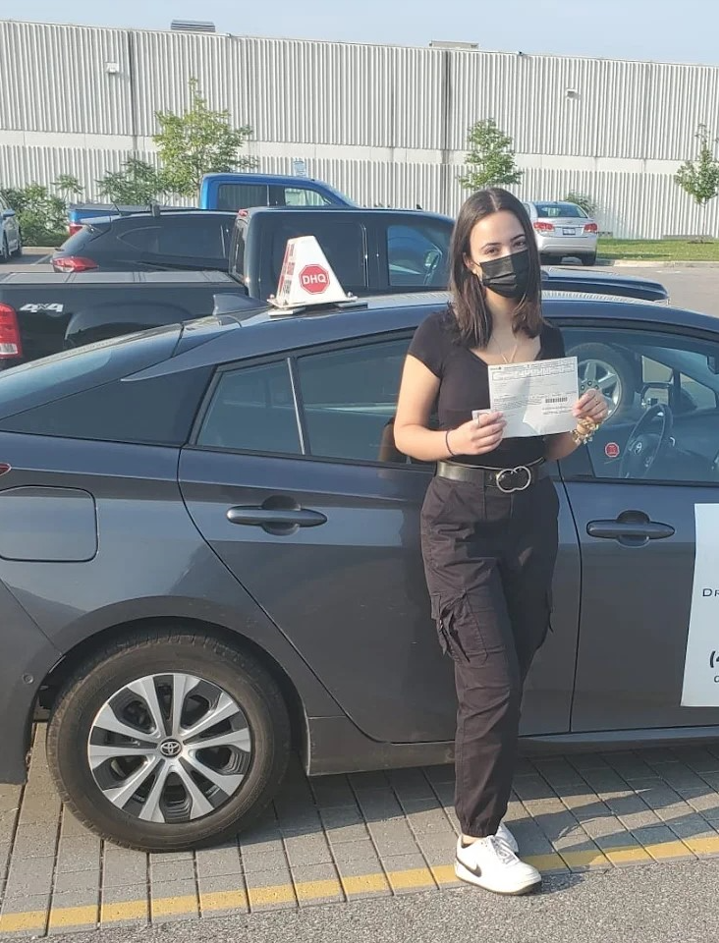
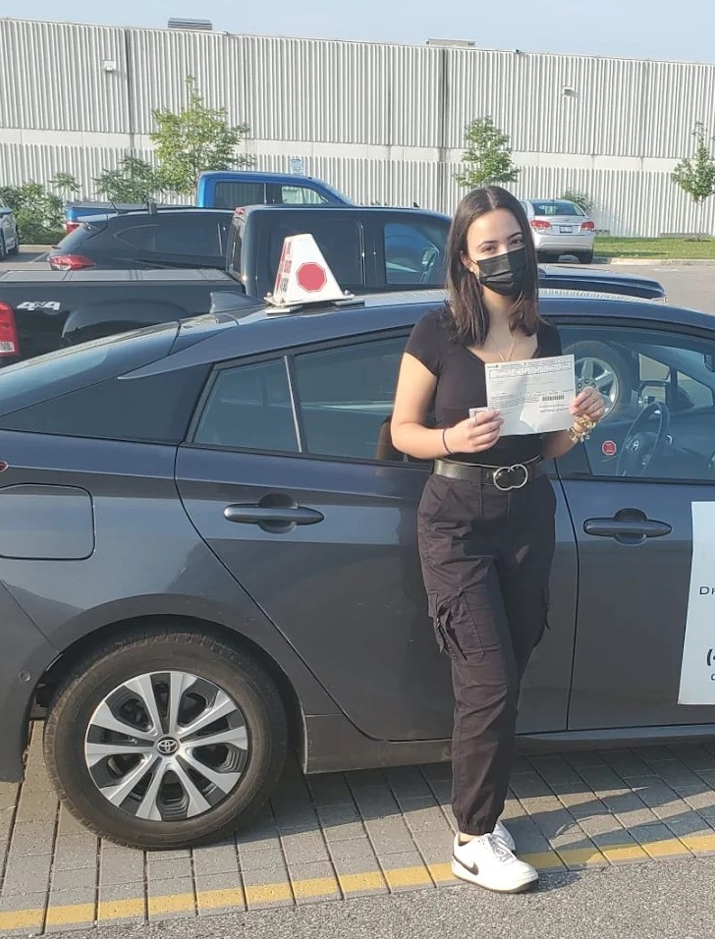
update pics

diff --git a/appointment.html b/appointment.html
@@ -192,8 +192,8 @@
             <div class="row g-5">
                 <div class="col-lg-6 wow fadeInUp" data-wow-delay="0.1s">
                     <div class="position-relative overflow-hidden ps-5 pt-5 h-100" style="min-height: 400px;">
-                        <img class="position-absolute w-100 h-100" src="img/female_driver_passed_g2_driving_test.png" alt="" style="object-fit: cover; object-position: 90% 30%;">
-                        <img class="position-absolute top-0 start-0 bg-white pe-3 pb-3" src="img/finished-driving-lessons-windsor-and-passed-g2-exam.jpg" alt="Student training session" style="width: 200px; height: 200px; object-fit: cover; object-position: 50% 90%" loading="lazy">
+                        <img class="position-absolute w-100 h-100" src="img/female_driver_passed_g2_driving_test.png" alt="" style="object-fit: cover; object-position: 70% 30%;">
+                        <img class="position-absolute top-0 start-0 bg-white pe-3 pb-3" src="img/teen-drivers-ed-windsor-drive-test.png" alt="Student training session" style="width: 200px; height: 200px; object-fit: cover; object-position: 50% 80%" loading="lazy">
                     </div>
                 </div>
                 <div class="col-lg-6 wow fadeInUp" data-wow-delay="0.5s">
